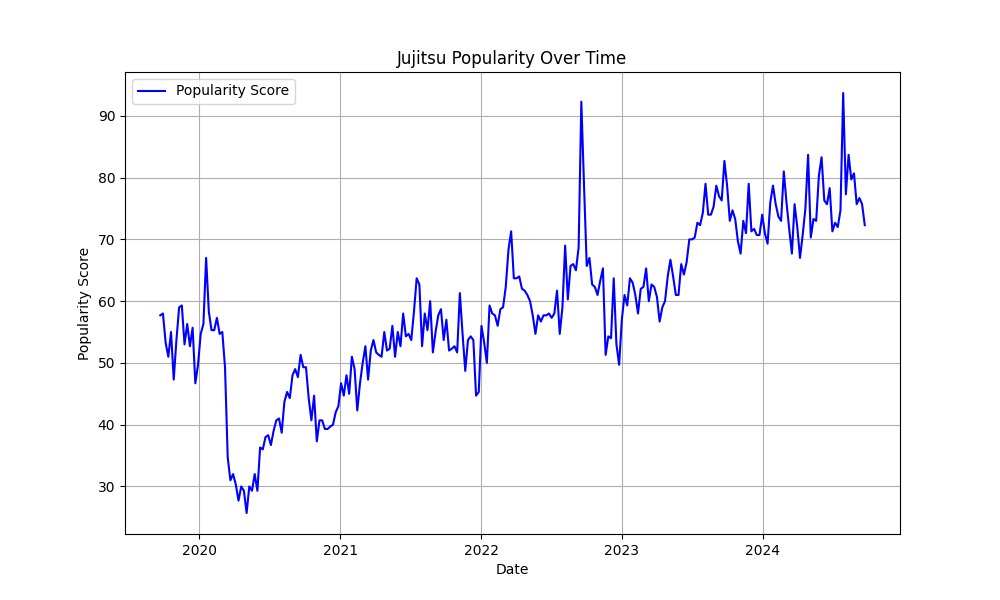
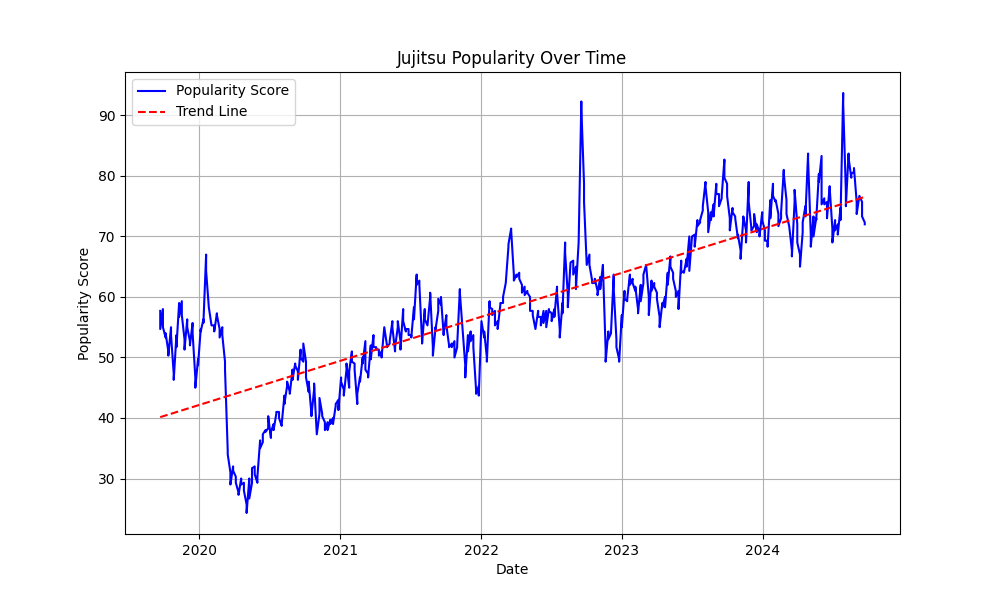
updated static plot

diff --git a/static/styles.css b/static/styles.css
@@ -1,5 +1,5 @@
 /* static/styles.css */
-/* Reset and Base Styles */
+
 * {
     box-sizing: border-box;
 }
@@ -7,9 +7,9 @@
 body {
     margin: 0;
     padding: 0;
-    font-family: 'Helvetica Neue', Helvetica, Arial, sans-serif;
     background-color: #f5f5f5; /* Light gray background */
     color: #333; /* Dark gray text */
+    font-family: 'Open Sans', 'Helvetica', 'Arial', sans-serif; /* Apply Open Sans */
 }
 
 /* Top Navigation Bar */
@@ -54,8 +54,9 @@ body {
 /* Header */
 h1 {
     text-align: center;
-    font-weight: 300;
+    /* Removed Bodoni font */
     margin-bottom: 40px;
+    font-weight: bold;
 }
 
 /* Chart Container */

diff --git a/static/script.js b/static/script.js
@@ -36,3 +36,22 @@ closeMoreInfo.addEventListener('click', closePanels);
 closeSources.addEventListener('click', closePanels);
 overlay.addEventListener('click', closePanels);
 
+function linearRegression(data) {
+    const n = data.length;
+    let sumX = 0, sumY = 0, sumXY = 0, sumX2 = 0;
+
+    data.forEach(point => {
+        const x = point[0];
+        const y = point[1];
+        sumX += x;
+        sumY += y;
+        sumXY += x * y;
+        sumX2 += x * x;
+    });
+
+    const slope = (n * sumXY - sumX * sumY) / (n * sumX2 - sumX * sumX);
+    const intercept = (sumY - slope * sumX) / n;
+
+    return { slope, intercept };
+}
+

diff --git a/templates/index.html b/templates/index.html
@@ -6,6 +6,9 @@
     <title>Jiu-jitsu</title>
     <!-- Include Highcharts from CDN -->
     <script src="https://code.highcharts.com/highcharts.js"></script>
+
+    <!-- Import Open Sans from Google Fonts -->
+     <link href="https://fonts.googleapis.com/css2?family=Open+Sans:wght@400;600;700&display=swap" rel="stylesheet">
     <!-- Link to your CSS file -->
     <link rel="stylesheet" type="text/css" href="/static/styles.css">
 </head>

diff --git a/static/static_plot.py b/static/static_plot.py
@@ -2,6 +2,8 @@ from database import SessionLocal
 from models import PopularityData
 import matplotlib.pyplot as plt
 import warnings
+from sklearn.linear_model import LinearRegression
+import pandas as pd
 warnings.filterwarnings("ignore")
 
 
@@ -14,9 +16,25 @@ def generate_static_popularity_chart():
         dates = [entry.date for entry in data]
         scores = [entry.popularity_score for entry in data]
 
+        # Convert dates to ordinal for regression analysis
+        dates_ordinal = [d.toordinal() for d in dates]
+
+        # Create a DataFrame for easier manipulation
+        df = pd.DataFrame({'Date': dates, 'Score': scores, 'Date_Ordinal': dates_ordinal})
+
+        # Linear regression for trend line
+        model = LinearRegression()
+        model.fit(df[['Date_Ordinal']], df['Score'])
+
+        # Predict scores using the linear model to create a trend line
+        trend_scores = model.predict(df[['Date_Ordinal']])
+
         # Create a Matplotlib figure
         plt.figure(figsize=(10, 6))
-        plt.plot(dates, scores, label='Popularity Score', color='blue', linestyle='-', marker=None)
+        plt.plot(df['Date'], df['Score'], label='Popularity Score', color='blue', linestyle='-', marker=None)
+
+        # Plot the trend line
+        plt.plot(df['Date'], trend_scores, label='Trend Line', color='red', linestyle='--')
 
         # Add title and labels
         plt.title('Jujitsu Popularity Over Time')

diff --git a/chart.py b/chart.py
@@ -1,35 +1,8 @@
 from database import SessionLocal
 from models import PopularityData
-# import plotly.graph_objs as go
-# from plotly.offline import plot
-#
-#
-# def generate_popularity_chart():
-#     db = SessionLocal()
-#     try:
-#         data = db.query(PopularityData).order_by(PopularityData.date).all()
-#         dates = [entry.date for entry in data]
-#         scores = [entry.popularity_score for entry in data]
-#
-#         # Create a Plotly figure
-#         fig = go.Figure(data=[
-#             go.Scatter(x=dates, y=scores, mode='lines', name='Popularity Score')
-#         ])
-#
-#         fig.update_layout(
-#             title='',
-#             xaxis_title='Date',
-#             yaxis_title='Popularity Score'
-#         )
-#
-#         # Convert the figure to HTML div string
-#         graph_html = plot(fig, output_type='div', include_plotlyjs=False)
-#         return graph_html
-#     finally:
-#         db.close()
 
 
-# chart.py
+
 def generate_popularity_chart():
     db = SessionLocal()
     try:

diff --git a/backend/scraper.py b/backend/scraper.py
@@ -2,6 +2,7 @@ import pandas as pd
 from pytrends.request import TrendReq
 from backend.crud import store_popularity_data
 
+
 def scrap_google_trends_bjj_1():
     pytrends = TrendReq()
     pytrends.build_payload(kw_list=["bjj"], cat=0, timeframe='today 5-y', geo='', gprop='')
@@ -58,23 +59,10 @@ def get_all_and_get_overall_average():
     return combined_df[['date', 'bjj', 'brazilian_jiu_jitsu', 'jujitsu', 'average']]
 
 
-
-
 # Example usage
 popularity_data = get_all_and_get_overall_average()
 # Store the data into the database
 store_popularity_data(popularity_data)
-
-
-
-
-
-
-
-
-
-
-
 
 
 # from selenium import webdriver
@@ -98,10 +86,3 @@ store_popularity_data(popularity_data)
 #
 # # Close the browser
 # driver.quit()
-
-
-
-
-
-
-

diff --git a/main.py b/main.py
@@ -21,11 +21,6 @@ templates = Jinja2Templates(directory="templates")
 RAPIDAPI_KEY = os.getenv("RAPIDAPI_KEY")
 RAPIDAPI_HOST = "google-news13.p.rapidapi.com"
 
-# Endpoint to fetch news data (commented out as per your current requirement)
-# def fetch_news():
-#     # Your existing fetch_news implementation
-#     pass
-
 
 @app.get("/index", response_class=HTMLResponse)
 async def popularity_chart(request: Request):
